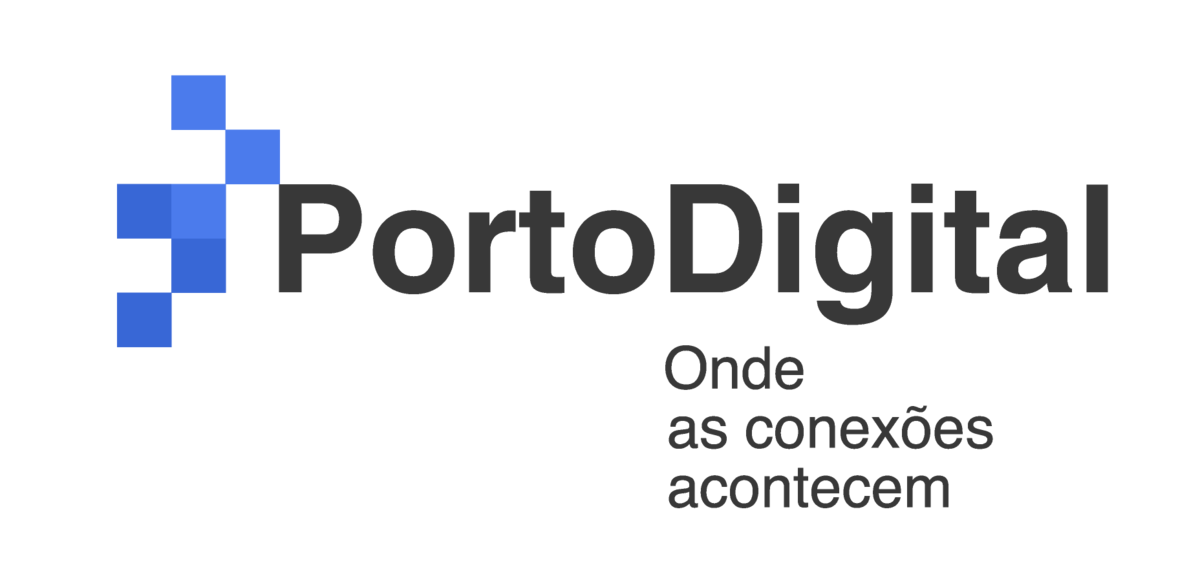
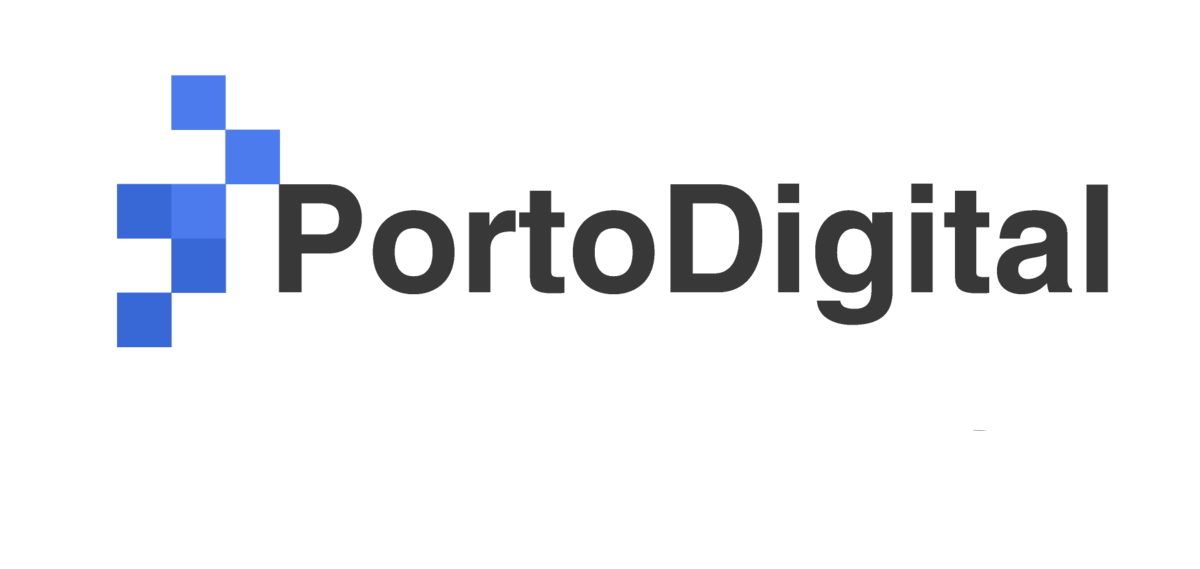
29/10/22  20:58
Mudança no rodapé:
Ajuste no tamanho das logos;
Mudança de cor do rodapé;
Modificação em uma logo.

Changed region(s): [[0.555, 0.717, 0.8325, 0.8963], [0.555, 0.5975, 0.6783, 0.6872]]

diff --git a/MedidaDeSaude-RiseUP/HTML/imc.html b/MedidaDeSaude-RiseUP/HTML/imc.html
@@ -137,23 +137,22 @@
         <!--Logo da Unit-->
         <div class="col-md-8">
        <div class = "unit">
-         <img src="../IMG/Unit.png" alt="" width="80" height="100">
+         <img src="../IMG/Unit.png" alt="" width="110" height="70">
        </div>
       </div>
       <!--Logo da Acenture-->
       <div class="col-md-8">
       <div class="accenture">
-       <img src="../IMG/accenture.png" alt="" width="105" height="120">
+       <img src="../IMG/accenture.png" alt="" width="120" height="80">
       </div>
     </div>
       <!--Logo do porto-->
       <div class="porto">
-       <img src="../IMG/porto.png" alt="" width="140" height="160">
+       <img src="../IMG/porto.png" alt="" width="150" height="100">
       </div>
-      <br></br><br></b>
       <!--Nome Dos Componentes do Squad-->
       <div class= squad>
-              <p><strong> Squad 14: Artur Henrique , Daniel Vilela , Emily Raquel , Geovane Pontes, Helton Escobar , Miguel Luis , Jose Carlos , Paulo Messias , Vinicius Santana </p></strong>
+              <p><strong> Squad 14: Artur Henrique, Daniel Vilela, Emily Raquel, Geovane Pontes, Helton Escobar, Miguel Luis, Jose Carlos, Paulo Messias, Vinicius Santana </p></strong>
            </div>
       <!--Link do boostrap e CSS-->
        <link rel="stylesheet" href="../CSS/Style-imc.css">

diff --git a/MedidaDeSaude-RiseUP/CSS/Style-imc.css b/MedidaDeSaude-RiseUP/CSS/Style-imc.css
@@ -193,23 +193,23 @@ body{
     padding-bottom: 20px;
 }
 footer.navbar-fixed-bottom {
-    background-color: rgb(156, 204, 247);
+    background-color: #b2c3c8;
     position:absolute;
     left: 0;
     right: 0;
  }
 .unit{
-    margin-top: 0px;
+    margin-top: 10px;
     margin-right: 0px;
     margin-left: 300px;
 }
 .accenture{
-    margin-top: -100px;
+    margin-top: -70px;
     margin-left: 900px;
 }
 .porto{
     text-align: center;
-    margin-top: -139px;
+    margin-top: -70px;
     margin-inline: 0;
 }
 .squad{
